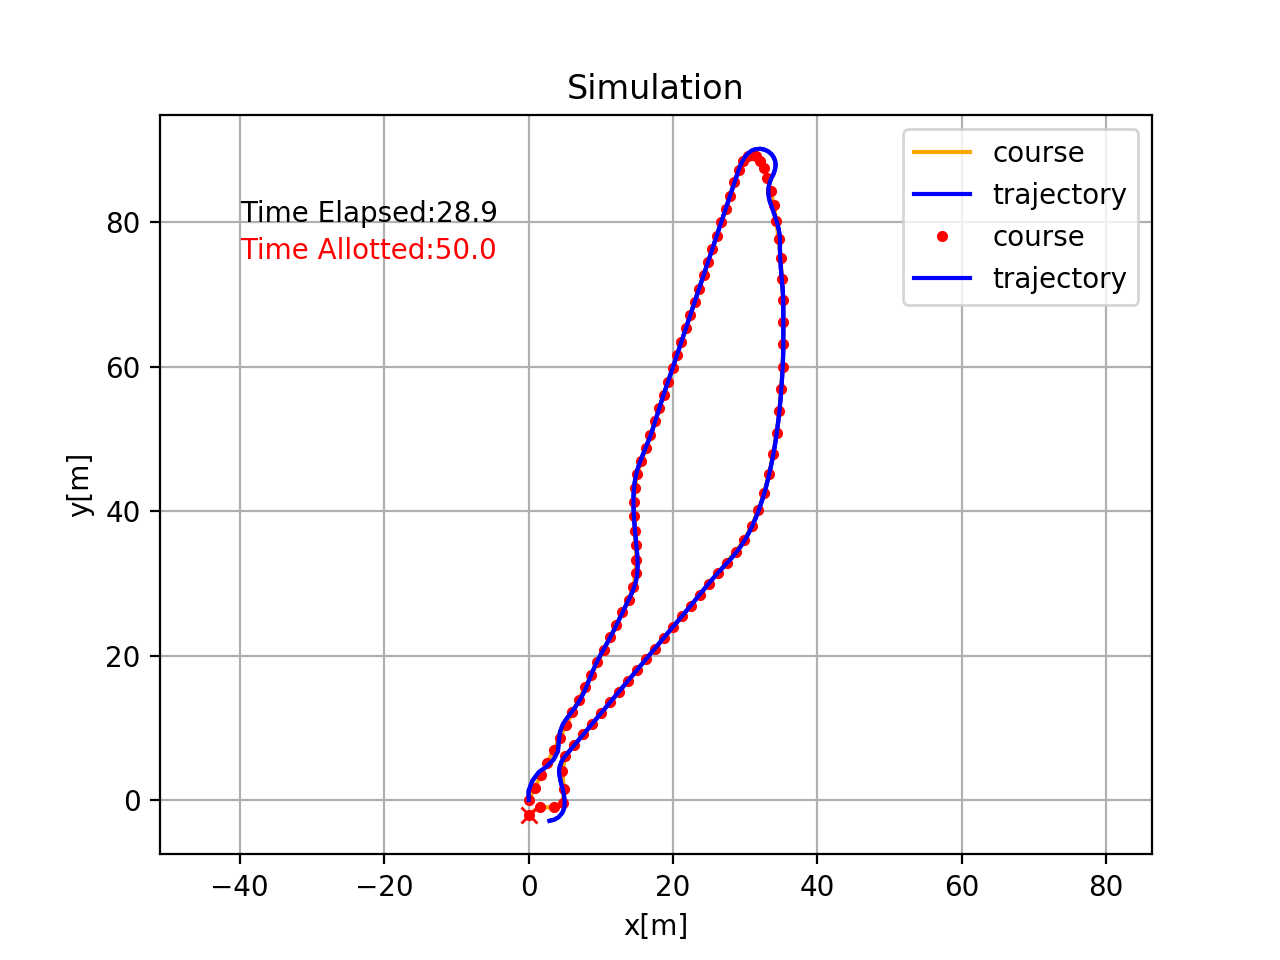
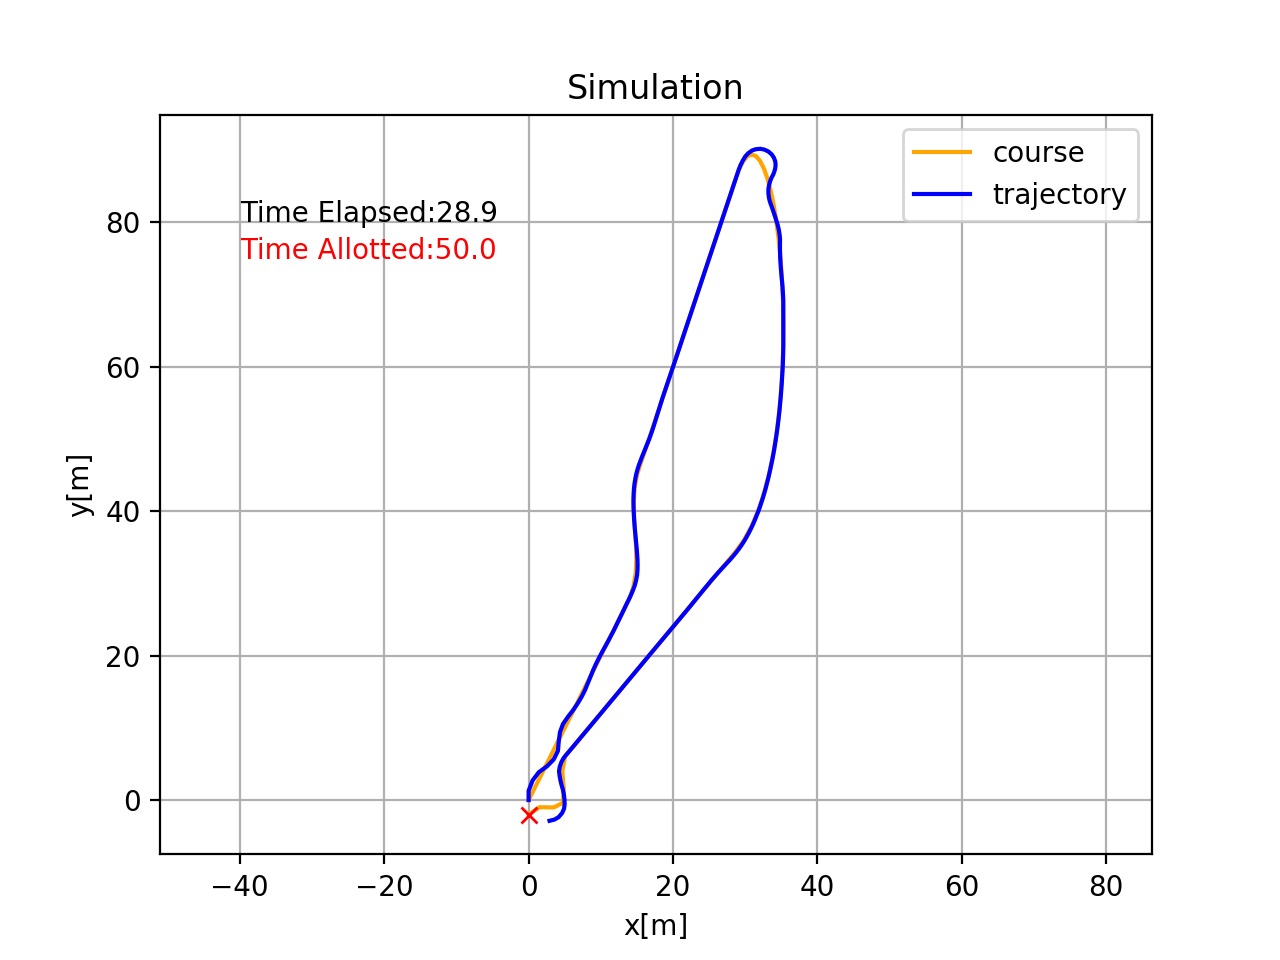
updated img

diff --git a/simple_sim.py b/simple_sim.py
@@ -105,8 +105,8 @@ def main():
     assert last_index >= target_index, "Cannot reach goal"
 
     if show_animation:
-        plt.plot(path[0][:],path[1][:], ".r", label = 'course')
-        plt.plot(x,y,'-b',label='trajectory')
+        #plt.plot(path[0][:],path[1][:], ".r", label = 'course')
+        #plt.plot(x,y,'-b',label='trajectory')
         plt.legend()
         plt.xlabel("x[m]")
         plt.ylabel("y[m]")
